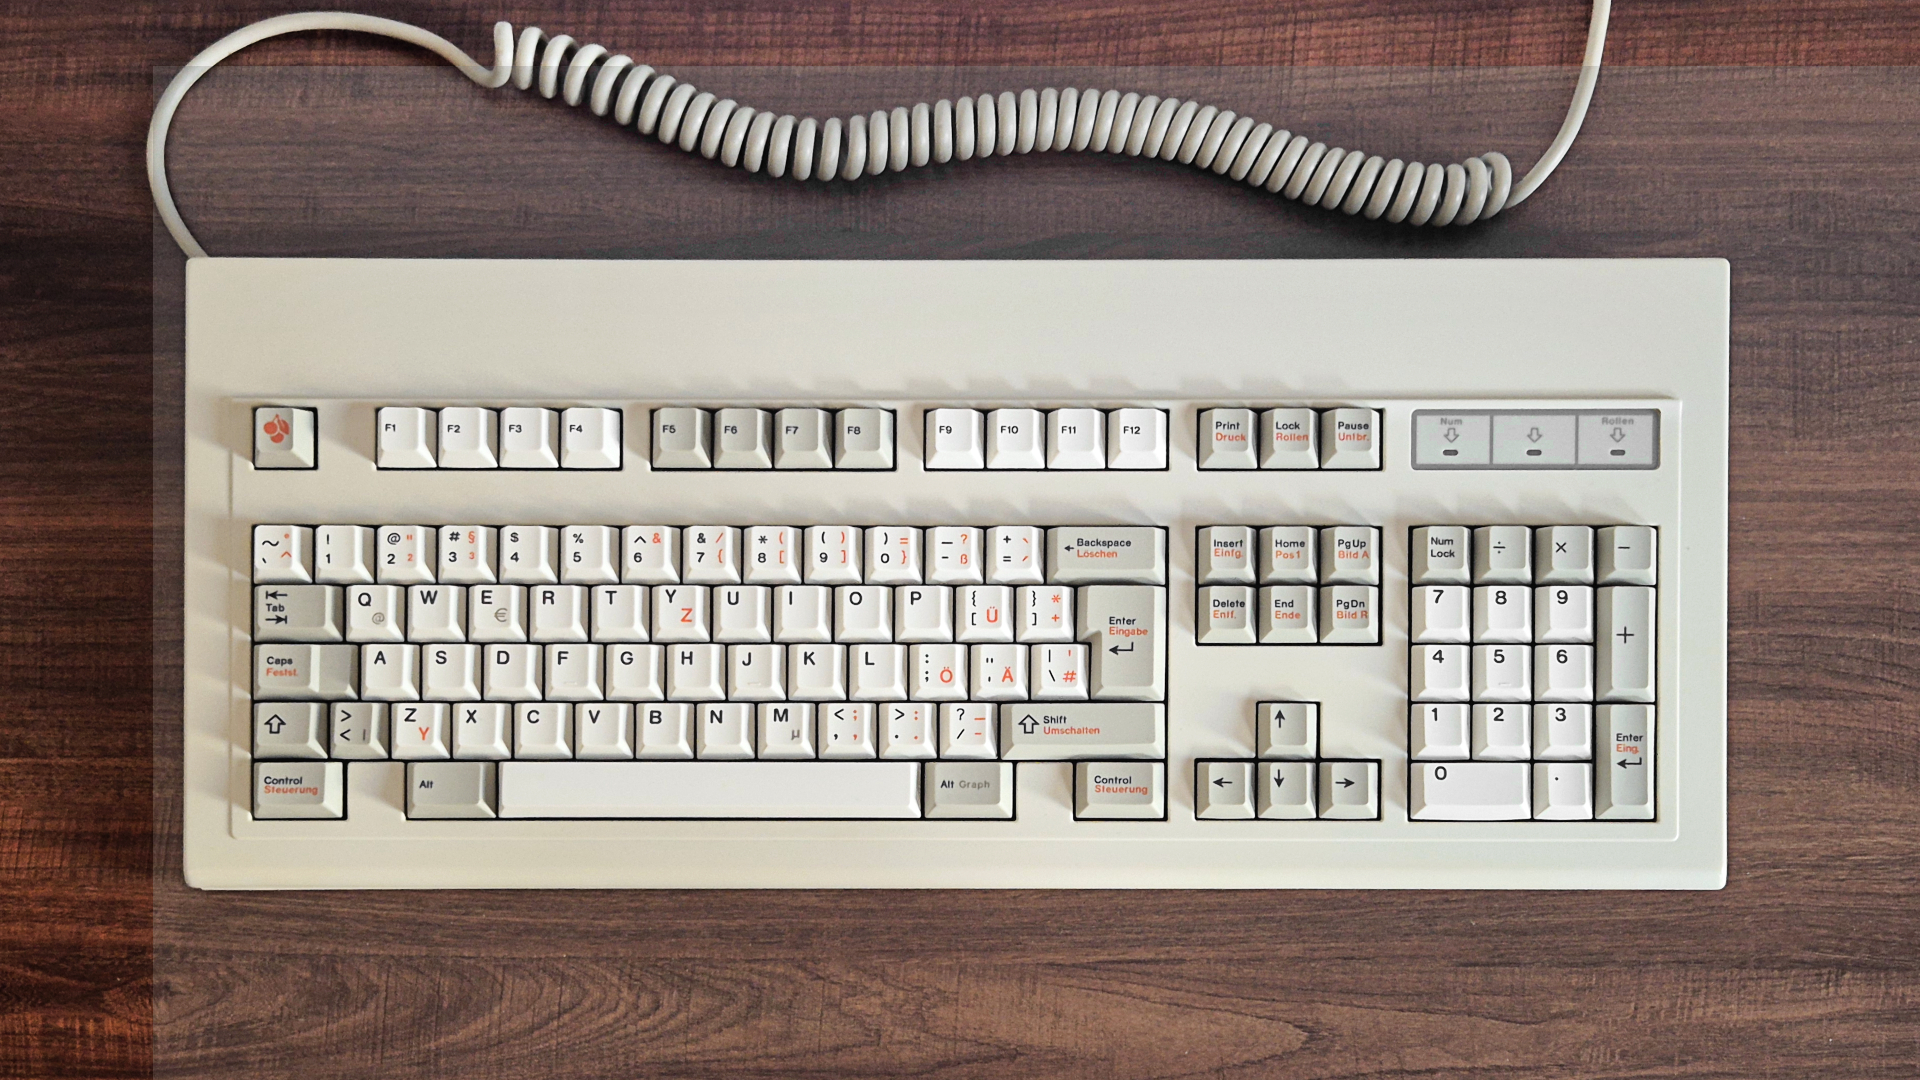
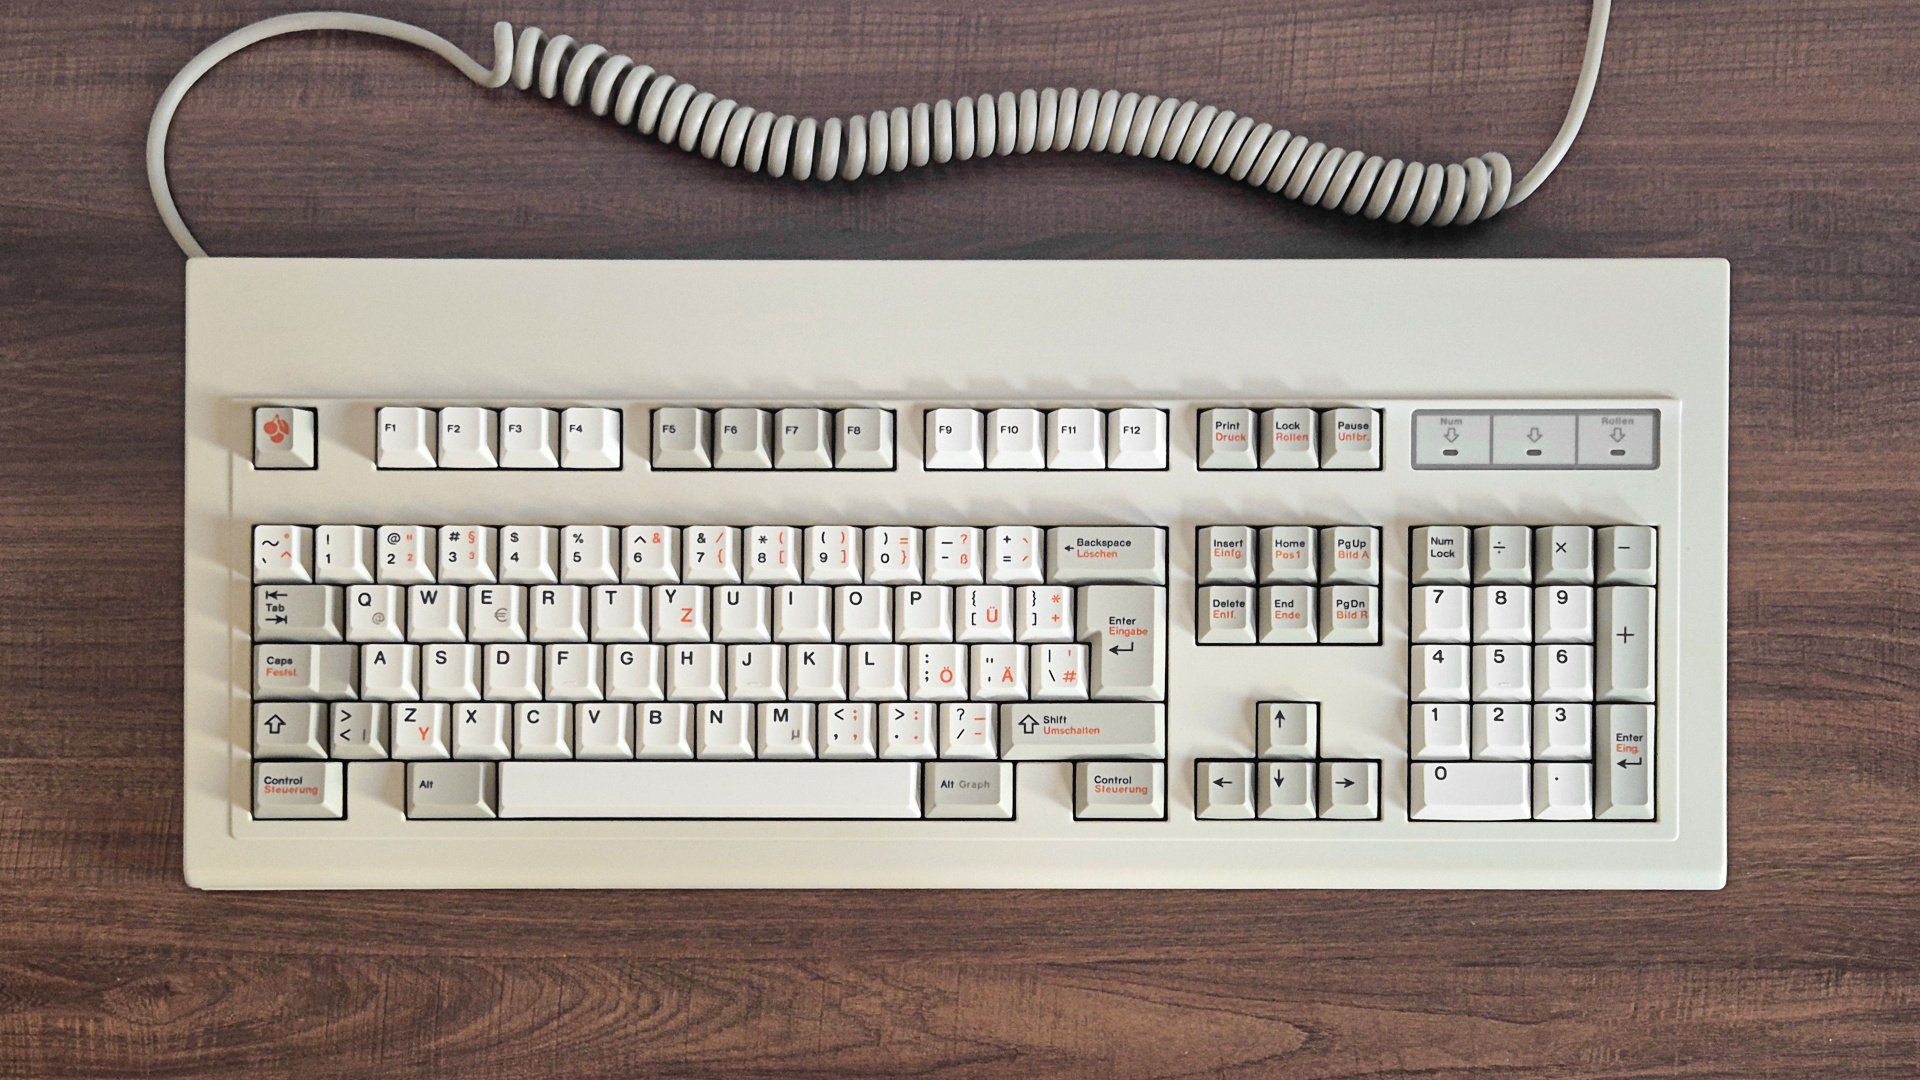
Index page patch

Changed region(s): [[0.0, 0.0, 1.0, 1.0]]

diff --git a/style.css b/style.css
@@ -1607,6 +1607,18 @@ a.pill:focus-visible {
     outline-offset: 3px;
 }
 
+/* -- "Split"-Layout: Text + Foto nebeneinander (z. B. "Aktuelles Projekt" auf
+   der Startseite) -- vorher als Inline-Style auf dem Element selbst gesetzt,
+   dadurch konnte keine Media Query es je responsiv kollabieren (Inline-Styles
+   schlagen jede Stylesheet-Regel unabhängig von Spezifität). Jetzt als
+   echte Klasse mit Kollaps in der bestehenden 980px-Regel weiter unten. */
+.split {
+    display: grid;
+    grid-template-columns: minmax(0, 1fr) minmax(300px, 0.85fr);
+    gap: clamp(1.4rem, 5vw, 4rem);
+    align-items: center;
+}
+
 /* -- Seiten-Hero (für Unterseiten ohne grosses Hero-Bild) -- */
 
 .page-hero {
@@ -1929,7 +1941,7 @@ textarea { min-height: 8.5rem; resize: vertical; }
 
 @media (max-width: 980px) {
     .grid--3, .footer-grid { grid-template-columns: repeat(2, minmax(0, 1fr)); }
-    .hero__inner, .page-hero, .contact-grid { grid-template-columns: 1fr; }
+    .hero__inner, .page-hero, .contact-grid, .split { grid-template-columns: 1fr; }
     .keycap-stage { max-height: 280px; order: -1; }
 }
 

diff --git a/index.html b/index.html
@@ -179,7 +179,7 @@
         </section>
 
         <section class="section section--muted">
-            <div class="section__inner split" style="display:grid; grid-template-columns: minmax(0,1fr) minmax(300px,0.85fr); gap: clamp(1.4rem,5vw,4rem); align-items:center;">
+            <div class="section__inner split">
                 <div>
                     <p class="eyebrow" data-i18n="section2.eyebrow">Aktuelles Projekt</p>
                     <h2 data-i18n="section2.heading">J80-3000: ein Klassiker lernt neue Tricks.</h2>
